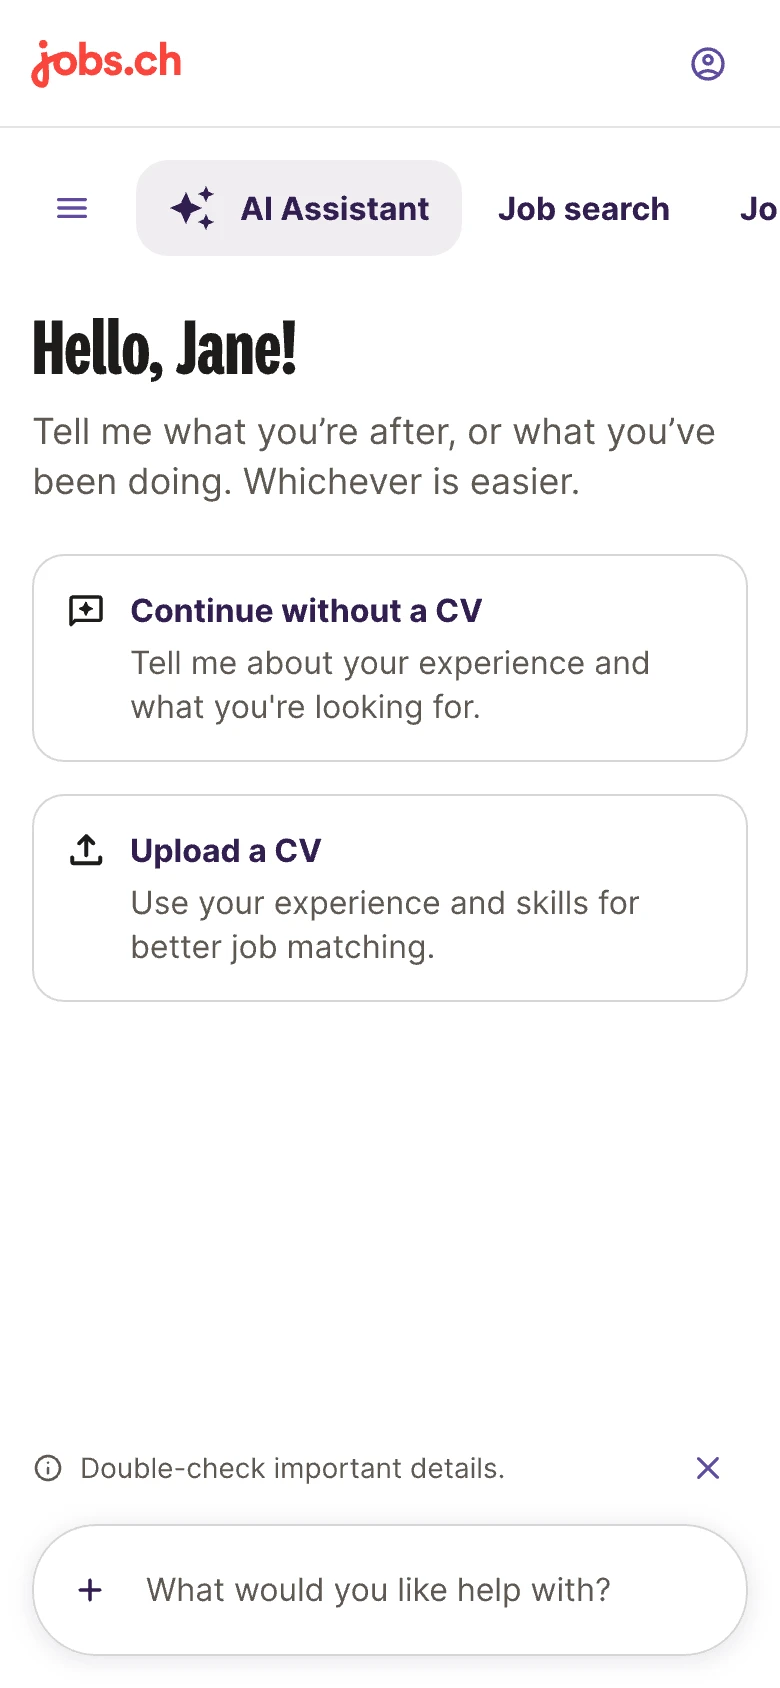
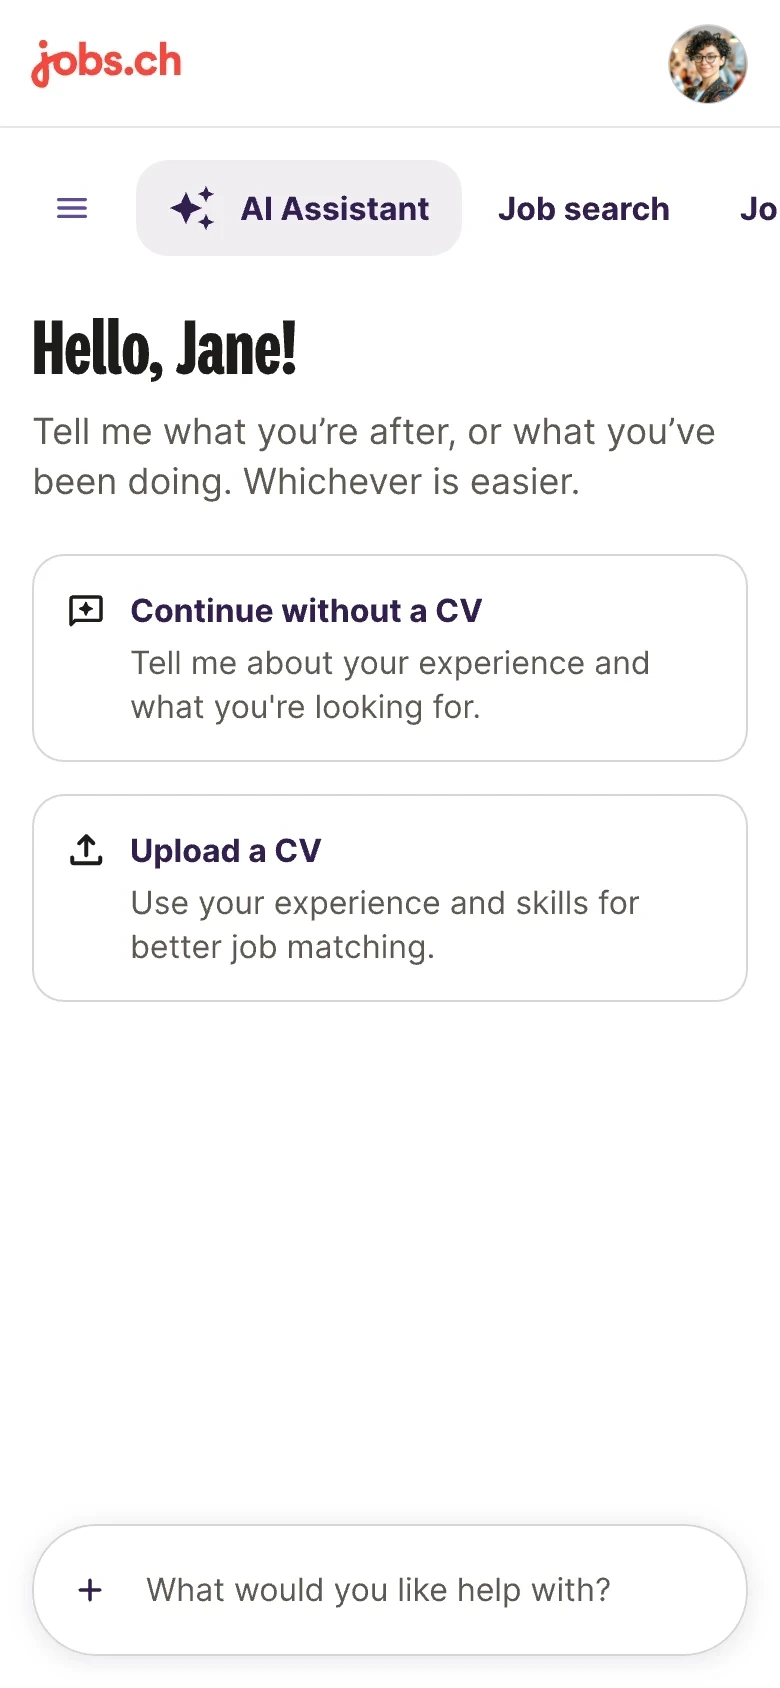
JobCloud: matching desktop and mobile content, polish; Grape mock-up on page background
- Every desktop + mobile pair shows the same conversation, answers,
  selection, attachment, job list and brief tags
- Welcome screens centred with no disclaimer line; message field closer
  to the actions; desktop Confirm enabled when answers are selected
- Mobile header shows the round avatar (40x40); typing states show the
  text cursor
- Search brief modal centred, with the "Based on this chat" line
- Grape phones sit on a transparent background instead of white

diff --git a/projects/jobcloud.html b/projects/jobcloud.html
@@ -8,7 +8,7 @@
   <link rel="preconnect" href="https://fonts.googleapis.com">
   <link rel="preconnect" href="https://fonts.gstatic.com" crossorigin>
   <link href="https://fonts.googleapis.com/css2?family=Stack+Sans+Text:wght@300;400;500;600;700&display=swap" rel="stylesheet">
-  <link rel="stylesheet" href="../css/styles.css?v=20261121k">
+  <link rel="stylesheet" href="../css/styles.css?v=20261122a">
   <link rel="icon" type="image/png" sizes="32x32" href="../assets/icons/favicon-32.png">
   <link rel="icon" type="image/png" sizes="64x64" href="../assets/icons/favicon-64.png">
   <link rel="apple-touch-icon" href="../assets/icons/apple-touch-icon.png">
@@ -53,7 +53,7 @@
 
     <!-- VISUAL 1: the assistant’s opening screen -->
     <figure class="screen screen--hero">
-      <img src="../assets/jobcloud/v2/d-opening-full.webp?v=4" width="2880" height="1560" alt="The jobs.ch AI Assistant on desktop: “Hello, Jane!” with a choice to continue without a CV or upload a CV, and a message field below, next to a slim sidebar.">
+      <img src="../assets/jobcloud/v2/d-opening-full.webp?v=10" width="2880" height="1560" alt="The jobs.ch AI Assistant on desktop: “Hello, Jane!” with a choice to continue without a CV or upload a CV, and a message field below, next to a slim sidebar.">
     </figure>
 
     <!-- STARTING POINT -->
@@ -146,7 +146,7 @@
       <figure class="panel screen panels--attached-one">
         <p class="panel__label">Round 2</p>
         <p class="panel__title">Dedicated assistant conversation</p>
-        <img class="shot-img shot-img--full" src="../assets/jobcloud/v2/df-attachment.webp?v=3" width="2880" height="1560" alt="The dedicated assistant view on desktop: a user asks for help with a cover letter, the assistant replies conversationally, and a file is attached in the message field." loading="lazy">
+        <img class="shot-img shot-img--full" src="../assets/jobcloud/v2/df-attachment.webp?v=5" width="2880" height="1560" alt="The dedicated assistant view on desktop: the user chose to continue without a CV, the assistant asks about their past work in their own words, and a CV is attached in the message field." loading="lazy">
         <figcaption>Participants discovered it quickly and understood its purpose before opening it.</figcaption>
       </figure>
 
@@ -180,21 +180,21 @@
       <div class="panel duo">
         <figure class="duo__item" style="flex: 1.846">
           <figcaption class="panel__label">Desktop · no CV yet</figcaption>
-          <img class="shot-img" src="../assets/jobcloud/v2/d-opening-full.webp?v=4" width="2880" height="1560" alt="Desktop opening screen: Hello, Jane! with Continue without a CV and Upload a CV, above the message field." loading="lazy">
+          <img class="shot-img" src="../assets/jobcloud/v2/d-opening-full.webp?v=10" width="2880" height="1560" alt="Desktop opening screen: Hello, Jane! Tell me what you’re after, or what you’ve been doing. Whichever is easier. With Continue without a CV and Upload a CV, above the message field." loading="lazy">
         </figure>
         <figure class="duo__item" style="flex: 0.466">
           <figcaption class="panel__label">Mobile · no CV yet</figcaption>
-          <img class="shot-img" src="../assets/jobcloud/v2/m-opening.webp" width="780" height="1688" alt="Mobile opening screen with Continue without a CV and Upload a CV." loading="lazy">
+          <img class="shot-img" src="../assets/jobcloud/v2/m-opening.webp?v=4" width="780" height="1688" alt="Mobile opening screen with Continue without a CV and Upload a CV." loading="lazy">
         </figure>
       </div>
       <div class="panel duo duo--attached">
         <figure class="duo__item" style="flex: 1.846">
           <figcaption class="panel__label">Desktop · CV on file</figcaption>
-          <img class="shot-img" src="../assets/jobcloud/v2/df-opening-cv.webp?v=4" width="2880" height="1560" alt="Desktop opening screen when the user has a CV, with action cards: Search with my CV, Create job alert, Refine my search, See saved jobs." loading="lazy">
+          <img class="shot-img" src="../assets/jobcloud/v2/df-opening-cv.webp?v=9" width="2880" height="1560" alt="Desktop opening screen when the user has a CV, with action cards: Search with my CV, Create job alert, Refine my search, See saved jobs, above the message field." loading="lazy">
         </figure>
         <figure class="duo__item" style="flex: 0.466">
           <figcaption class="panel__label">Mobile · CV on file</figcaption>
-          <img class="shot-img" src="../assets/jobcloud/v2/m-opening-cv.webp" width="780" height="1688" alt="Mobile opening screen when the user has a CV, with the same action cards." loading="lazy">
+          <img class="shot-img" src="../assets/jobcloud/v2/m-opening-cv.webp?v=4" width="780" height="1688" alt="Mobile opening screen when the user has a CV, with the same action cards." loading="lazy">
         </figure>
       </div>
     </section>
@@ -211,17 +211,17 @@
         </figure>
         <figure class="duo__item" style="flex: 0.466">
           <figcaption class="panel__label">Mobile · nothing selected</figcaption>
-          <img class="shot-img" src="../assets/jobcloud/v2/mf-answers-empty.webp" width="780" height="1688" alt="Mobile: the same question with three unticked suggested answers and a disabled Confirm." loading="lazy">
+          <img class="shot-img" src="../assets/jobcloud/v2/mf-answers-empty.webp?v=3" width="780" height="1688" alt="Mobile: the same question with three unticked suggested answers and a disabled Confirm." loading="lazy">
         </figure>
       </div>
       <div class="panel duo duo--attached">
         <figure class="duo__item" style="flex: 1.846">
           <figcaption class="panel__label">Desktop · answers selected</figcaption>
-          <img class="shot-img" src="../assets/jobcloud/v2/df-answers-selected.webp?v=3" width="2880" height="1560" alt="Desktop: two of the suggested answers ticked." loading="lazy">
+          <img class="shot-img" src="../assets/jobcloud/v2/df-answers-selected.webp?v=5" width="2880" height="1560" alt="Desktop: I’ve created wireframes and interactive prototypes and I’ve tested designs with users to improve usability ticked." loading="lazy">
         </figure>
         <figure class="duo__item" style="flex: 0.466">
           <figcaption class="panel__label">Mobile · answers selected</figcaption>
-          <img class="shot-img" src="../assets/jobcloud/v2/mf-answers-selected.webp" width="780" height="1688" alt="Mobile: two answers ticked and Confirm enabled." loading="lazy">
+          <img class="shot-img" src="../assets/jobcloud/v2/mf-answers-selected.webp?v=4" width="780" height="1688" alt="Mobile: the same answers as on desktop, with I’ve created wireframes and interactive prototypes and I’ve tested designs with users to improve usability ticked, and Confirm enabled." loading="lazy">
         </figure>
       </div>
     </section>
@@ -233,12 +233,12 @@
       </div>
       <div class="panel duo">
         <figure class="duo__item" style="flex: 1.846">
-          <figcaption class="panel__label">Desktop · file attached</figcaption>
-          <img class="shot-img" src="../assets/jobcloud/v2/df-attachment.webp?v=3" width="2880" height="1560" alt="Desktop: a cover letter file attached in the message field, below the assistant’s reply." loading="lazy">
+          <figcaption class="panel__label">Desktop · CV attached</figcaption>
+          <img class="shot-img" src="../assets/jobcloud/v2/df-attachment.webp?v=5" width="2880" height="1560" alt="Desktop: after Continue without a CV, the assistant asks about past work, and jane-cv.pdf is attached in the message field." loading="lazy">
         </figure>
         <figure class="duo__item" style="flex: 0.466">
           <figcaption class="panel__label">Mobile · CV attached</figcaption>
-          <img class="shot-img" src="../assets/jobcloud/v2/mf-attachment.webp" width="780" height="1688" alt="Mobile: jane-cv.pdf attached above a typed answer, with the keyboard open." loading="lazy">
+          <img class="shot-img" src="../assets/jobcloud/v2/mf-attachment.webp?v=9" width="780" height="1688" alt="Mobile: the same conversation, with jane-cv.pdf attached in the message field and the keyboard open." loading="lazy">
         </figure>
       </div>
       <div class="panels panels--attached">
@@ -248,7 +248,7 @@
         </figure>
         <figure class="panel screen">
           <figcaption class="panel__label">Mobile · while typing</figcaption>
-          <img class="shot-img" src="../assets/jobcloud/v2/m-composer-expanded.webp?v=3" width="780" height="400" alt="The expanded message field holding a longer answer, with a send button." loading="lazy">
+          <img class="shot-img" src="../assets/jobcloud/v2/m-composer-expanded.webp?v=4" width="780" height="400" alt="The expanded message field holding a longer answer, with a send button." loading="lazy">
         </figure>
       </div>
     </section>
@@ -261,11 +261,11 @@
       <div class="panel duo">
         <figure class="duo__item" style="flex: 1.846">
           <figcaption class="panel__label">Desktop · thinking</figcaption>
-          <div class="live"><img class="shot-img" src="../assets/jobcloud/v2/df-thinking.webp?v=4" width="2880" height="1560" alt="Desktop: the assistant’s thinking indicator below its reply, with a stop button in the message field." loading="lazy"><div class="thinking-live" data-w="1440" style="left:27.708%;top:35.513%;--u:0.0694cqw" aria-hidden="true"><div class="thinking__item"><img src="../assets/jobcloud/v2/thinking-binoculars.svg" alt=""><span>Scouting the latest job ads…</span></div><div class="thinking__item"><img src="../assets/jobcloud/v2/thinking-location.svg" alt=""><span>Mapping out jobs near you…</span></div><div class="thinking__item"><img src="../assets/jobcloud/v2/thinking-briefcase.svg" alt=""><span>Packing up your best matches…</span></div></div></div>
+          <div class="live"><img class="shot-img" src="../assets/jobcloud/v2/df-thinking.webp?v=5" width="2880" height="1560" alt="Desktop: the user chose Continue without a CV and the thinking indicator shows below it, with a stop button in the message field." loading="lazy"><div class="thinking-live" data-w="1440" style="left:27.708%;top:24.282%;--u:0.0694cqw" aria-hidden="true"><div class="thinking__item"><img src="../assets/jobcloud/v2/thinking-binoculars.svg" alt=""><span>Scouting the latest job ads…</span></div><div class="thinking__item"><img src="../assets/jobcloud/v2/thinking-location.svg" alt=""><span>Mapping out jobs near you…</span></div><div class="thinking__item"><img src="../assets/jobcloud/v2/thinking-briefcase.svg" alt=""><span>Packing up your best matches…</span></div></div></div>
         </figure>
         <figure class="duo__item" style="flex: 0.466">
           <figcaption class="panel__label">Mobile · thinking</figcaption>
-          <div class="live"><img class="shot-img" src="../assets/jobcloud/v2/mf-thinking.webp" width="780" height="1688" alt="Mobile: the thinking indicator and a stop button in the message field." loading="lazy"><div class="thinking-live" data-w="390" style="left:4.436%;top:26.232%;--u:0.2564cqw" aria-hidden="true"><div class="thinking__item"><img src="../assets/jobcloud/v2/thinking-binoculars.svg" alt=""><span>Scouting the latest job ads…</span></div><div class="thinking__item"><img src="../assets/jobcloud/v2/thinking-location.svg" alt=""><span>Mapping out jobs near you…</span></div><div class="thinking__item"><img src="../assets/jobcloud/v2/thinking-briefcase.svg" alt=""><span>Packing up your best matches…</span></div></div></div>
+          <div class="live"><img class="shot-img" src="../assets/jobcloud/v2/mf-thinking.webp?v=3" width="780" height="1688" alt="Mobile: the thinking indicator and a stop button in the message field." loading="lazy"><div class="thinking-live" data-w="390" style="left:4.436%;top:26.232%;--u:0.2564cqw" aria-hidden="true"><div class="thinking__item"><img src="../assets/jobcloud/v2/thinking-binoculars.svg" alt=""><span>Scouting the latest job ads…</span></div><div class="thinking__item"><img src="../assets/jobcloud/v2/thinking-location.svg" alt=""><span>Mapping out jobs near you…</span></div><div class="thinking__item"><img src="../assets/jobcloud/v2/thinking-briefcase.svg" alt=""><span>Packing up your best matches…</span></div></div></div>
         </figure>
       </div>
       <div class="panels panels--attached">
@@ -292,7 +292,7 @@
         </figure>
         <figure class="duo__item" style="flex: 0.466">
           <figcaption class="panel__label">Mobile</figcaption>
-          <img class="shot-img" src="../assets/jobcloud/v2/mf-jobs.webp" width="780" height="1688" alt="Mobile: a job card with the next one peeking in from the right, and the feedback question below." loading="lazy">
+          <img class="shot-img" src="../assets/jobcloud/v2/mf-jobs.webp?v=3" width="780" height="1688" alt="Mobile: a job card with the next one peeking in from the right, and the feedback question below." loading="lazy">
         </figure>
       </div>
     </section>
@@ -315,7 +315,7 @@
       <div class="panel duo duo--attached">
         <figure class="duo__item" style="flex: 1.846">
           <figcaption class="panel__label">Desktop · view all jobs</figcaption>
-          <img class="shot-img" src="../assets/jobcloud/v2/df-view-all.webp?v=3" width="2880" height="1560" alt="Desktop: the 3 jobs in this chat panel with tabs All, Not opened, Viewed and Saved, beside the conversation." loading="lazy">
+          <img class="shot-img" src="../assets/jobcloud/v2/df-view-all.webp?v=5" width="2880" height="1560" alt="Desktop: the 3 jobs in this chat panel with tabs All, Not opened, Viewed and Saved, listing Senior Product Designer, UX Designer, Lead Product Designer and Senior UX Designer, beside the conversation." loading="lazy">
         </figure>
         <figure class="duo__item" style="flex: 0.466">
           <figcaption class="panel__label">Mobile · view all jobs</figcaption>
@@ -332,11 +332,11 @@
       <div class="panel duo duo--attached">
         <figure class="duo__item" style="flex: 1.846">
           <figcaption class="panel__label">Desktop · search brief</figcaption>
-          <img class="shot-img" src="../assets/jobcloud/v2/df-brief-filled.webp?v=3" width="2880" height="1560" alt="Desktop: Your search brief dialog with tags UX Designer, Zurich, Hybrid and 80–100%." loading="lazy">
+          <img class="shot-img" src="../assets/jobcloud/v2/df-brief-filled.webp?v=7" width="2880" height="1560" alt="Desktop: Your search brief dialog, based on this chat, with tags UX Designer, Zurich, Hybrid and 80–100%." loading="lazy">
         </figure>
         <figure class="duo__item" style="flex: 0.466">
           <figcaption class="panel__label">Mobile · search brief</figcaption>
-          <img class="shot-img" src="../assets/jobcloud/v2/m-brief-summary.webp" width="780" height="1688" alt="Mobile: Your search brief with tags Customer service, Zurich, Hybrid and 80–100%." loading="lazy">
+          <img class="shot-img" src="../assets/jobcloud/v2/m-brief-summary.webp?v=4" width="780" height="1688" alt="Mobile: Your search brief, based on this chat, with tags UX Designer, Zurich, Hybrid and 80–100%." loading="lazy">
         </figure>
       </div>
     </section>
@@ -358,7 +358,7 @@
         </figure>
         <figure class="duo__item" style="flex: 1.519">
           <figcaption class="panel__label">After · Assistant opening screen</figcaption>
-          <img class="shot-img" src="../assets/jobcloud/v2/d-opening-crop.webp" width="1580" height="1040" alt="“Hello, Jane!” with two options, Continue without a CV and Upload a CV, above the message field and a reminder to double-check important details." loading="lazy">
+          <img class="shot-img" src="../assets/jobcloud/v2/d-opening-crop.webp" width="1580" height="1040" alt="“Hello, Jane!” with two options, Continue without a CV and Upload a CV, above the message field." loading="lazy">
         </figure>
       </div>
       <p class="case__note">From selecting filters to describing intent.</p>
@@ -482,6 +482,6 @@
     <p class="footer__name"><span data-fit>Let’s connect.</span></p>
   </footer>
 
-  <script src="../js/main.js?v=20261121k"></script>
+  <script src="../js/main.js?v=20261122a"></script>
 </body>
 </html>

diff --git a/projects/grape.html b/projects/grape.html
@@ -8,7 +8,7 @@
   <link rel="preconnect" href="https://fonts.googleapis.com">
   <link rel="preconnect" href="https://fonts.gstatic.com" crossorigin>
   <link href="https://fonts.googleapis.com/css2?family=Stack+Sans+Text:wght@300;400;500;600;700&display=swap" rel="stylesheet">
-  <link rel="stylesheet" href="../css/styles.css?v=20261121k">
+  <link rel="stylesheet" href="../css/styles.css?v=20261122a">
   <link rel="icon" type="image/png" sizes="32x32" href="../assets/icons/favicon-32.png">
   <link rel="icon" type="image/png" sizes="64x64" href="../assets/icons/favicon-64.png">
   <link rel="apple-touch-icon" href="../assets/icons/apple-touch-icon.png">
@@ -53,7 +53,7 @@
 
     <!-- VISUAL 1: app screens -->
     <figure class="screen screen--device">
-      <img src="../assets/grape/app-screens.webp" width="1772" height="1770" alt="Two FullMoon screens on phones: a welcome screen with a close-up of white grapes, Get started, Login and Continue with Apple; and the Warehouse screen with Grapes, Oenology and Packaging tabs listing white grape varieties with quantities and prices per kilogram.">
+      <img src="../assets/grape/app-screens.webp?v=2" width="1772" height="1770" alt="Two FullMoon screens on phones: a welcome screen with a close-up of white grapes, Get started, Login and Continue with Apple; and the Warehouse screen with Grapes, Oenology and Packaging tabs listing white grape varieties with quantities and prices per kilogram.">
     </figure>
 
     <!-- ABOUT -->
@@ -117,6 +117,6 @@
     <p class="footer__name"><span data-fit>Let’s connect.</span></p>
   </footer>
 
-  <script src="../js/main.js?v=20261121k"></script>
+  <script src="../js/main.js?v=20261122a"></script>
 </body>
 </html>

diff --git a/projects/wingman-ai.html b/projects/wingman-ai.html
@@ -8,7 +8,7 @@
   <link rel="preconnect" href="https://fonts.googleapis.com">
   <link rel="preconnect" href="https://fonts.gstatic.com" crossorigin>
   <link href="https://fonts.googleapis.com/css2?family=Stack+Sans+Text:wght@300;400;500;600;700&display=swap" rel="stylesheet">
-  <link rel="stylesheet" href="../css/styles.css?v=20261121k">
+  <link rel="stylesheet" href="../css/styles.css?v=20261122a">
   <link rel="icon" type="image/png" sizes="32x32" href="../assets/icons/favicon-32.png">
   <link rel="icon" type="image/png" sizes="64x64" href="../assets/icons/favicon-64.png">
   <link rel="apple-touch-icon" href="../assets/icons/apple-touch-icon.png">
@@ -315,6 +315,6 @@
     <p class="footer__name"><span data-fit>Let’s connect.</span></p>
   </footer>
 
-  <script src="../js/main.js?v=20261121k"></script>
+  <script src="../js/main.js?v=20261122a"></script>
 </body>
 </html>

diff --git a/404.html b/404.html
@@ -14,7 +14,7 @@
   <link rel="preconnect" href="https://fonts.googleapis.com">
   <link rel="preconnect" href="https://fonts.gstatic.com" crossorigin>
   <link href="https://fonts.googleapis.com/css2?family=Stack+Sans+Text:wght@300;400;500;600;700&display=swap" rel="stylesheet">
-  <link rel="stylesheet" href="css/styles.css?v=20261121k">
+  <link rel="stylesheet" href="css/styles.css?v=20261122a">
   <link rel="icon" type="image/png" sizes="32x32" href="assets/icons/favicon-32.png">
   <link rel="icon" type="image/png" sizes="64x64" href="assets/icons/favicon-64.png">
   <link rel="apple-touch-icon" href="assets/icons/apple-touch-icon.png">
@@ -50,6 +50,6 @@
     <p class="footer__name"><span data-fit>Let’s connect.</span></p>
   </footer>
 
-  <script src="js/main.js?v=20261121k"></script>
+  <script src="js/main.js?v=20261122a"></script>
 </body>
 </html>

diff --git a/index.html b/index.html
@@ -8,7 +8,7 @@
   <link rel="preconnect" href="https://fonts.googleapis.com">
   <link rel="preconnect" href="https://fonts.gstatic.com" crossorigin>
   <link href="https://fonts.googleapis.com/css2?family=Stack+Sans+Text:wght@300;400;500;600;700&display=swap" rel="stylesheet">
-  <link rel="stylesheet" href="css/styles.css?v=20261121k">
+  <link rel="stylesheet" href="css/styles.css?v=20261122a">
   <link rel="icon" type="image/png" sizes="32x32" href="assets/icons/favicon-32.png">
   <link rel="icon" type="image/png" sizes="64x64" href="assets/icons/favicon-64.png">
   <link rel="apple-touch-icon" href="assets/icons/apple-touch-icon.png">
@@ -108,6 +108,6 @@
     <p class="footer__name"><span data-fit>Let’s connect.</span></p>
   </footer>
 
-  <script src="js/main.js?v=20261121k"></script>
+  <script src="js/main.js?v=20261122a"></script>
 </body>
 </html>

diff --git a/css/styles.css b/css/styles.css
@@ -880,7 +880,7 @@ body.case { background: #fafaf8; }
 
 /* Device mock-up on white: no frame, centred, capped so the phones don't fill the screen */
 .screen--device { align-items: center; }
-.screen--device img { width: 100%; max-width: 760px; border: 0; mix-blend-mode: multiply; } /* white backdrop melts into the off-white page */
+.screen--device img { width: 100%; max-width: 760px; border: 0; border-radius: 0; background: none; } /* transparent mock-up on the page background */
 
 /* Desktop beside mobile in one card: each item grows in proportion to its image's width:height,
    so both screens end up exactly the same height (set per item with an inline flex value) */
